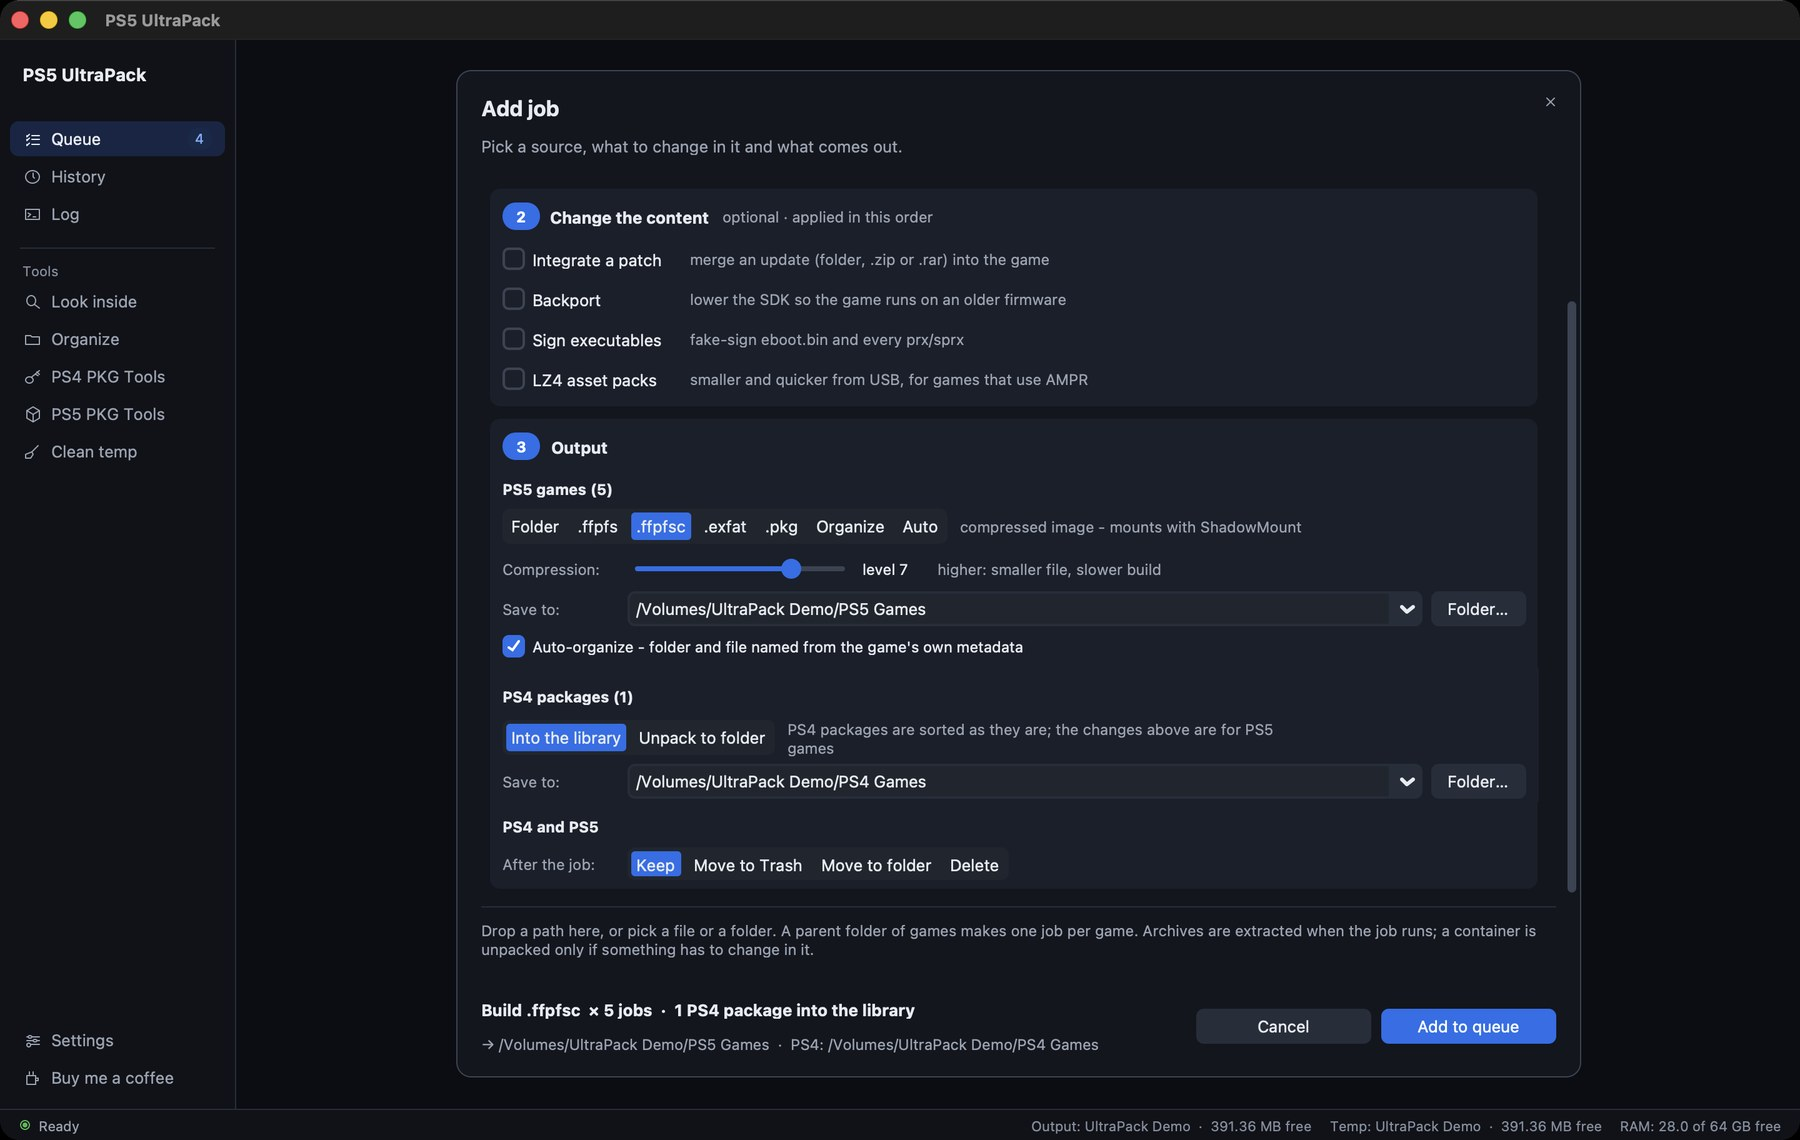
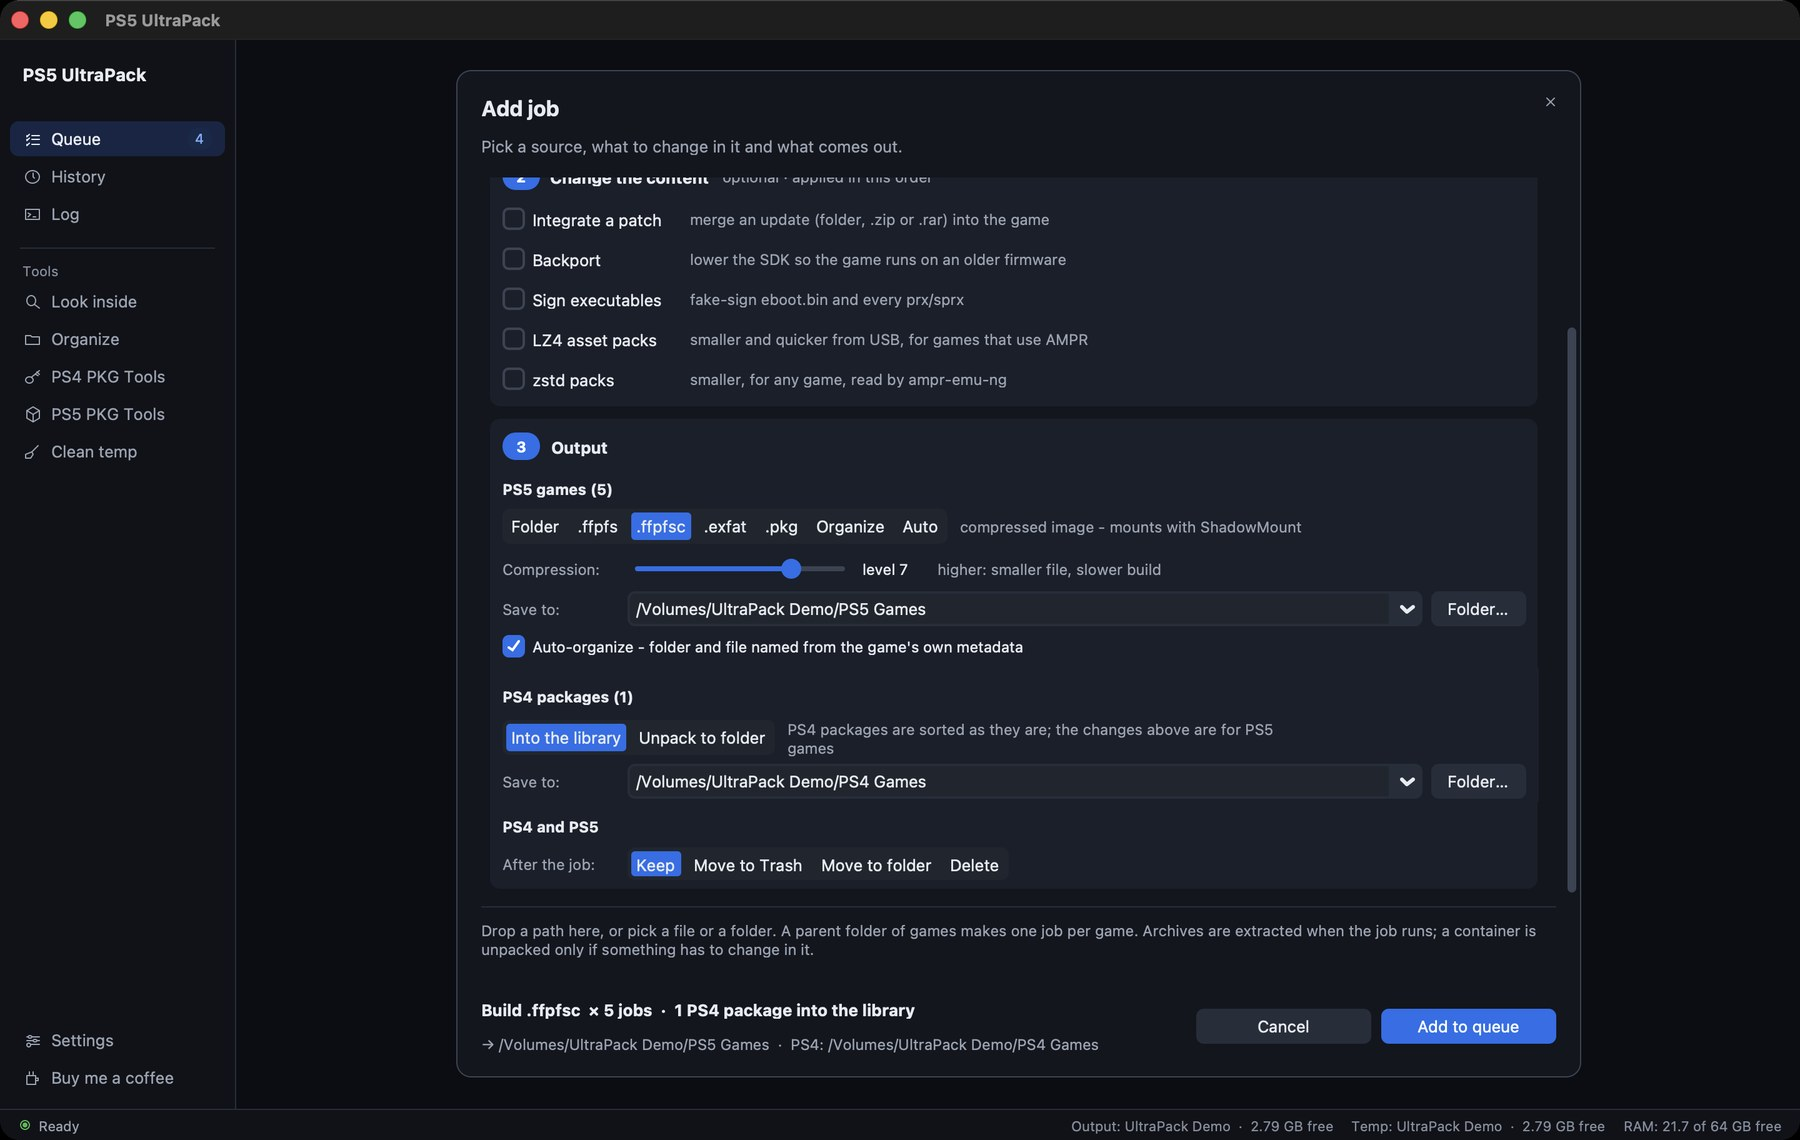
README: asset packs section, new screenshots, overview with zstd packs
The README explains LZ4 and zstd packs side by side, RAM for temp on
Linux and unplugged drives, and lists lz4, backports.zstd and
FETCH_AMPR_EMU.sh for a source run. All screenshots are taken again
from the current UI, with a new one of zstd packs in Add job; the
previous set moves to docs/screenshots/2.3.1.

Changed region(s): [[0.28, 0.1535, 0.5911, 0.3377], [0.56, 0.9825, 0.9644, 1.0]]

diff --git a/README.md b/README.md
@@ -4,7 +4,7 @@
   <img src="images/overview.png" alt="Sources on the left, the steps of a job in the middle, the output formats on the right, the tools below" width="900">
 </p>
 
-A desktop app for macOS, Windows and Linux that packs, converts, patches, backports and signs PS5 games, builds installable `.pkg` files, and checks and fixes PS4 and PS5 packages. You add a game folder, an archive, a disk image, a `.ffpfs`/`.ffpfsc` or a `.pkg`, pick what should happen to it and what should come out, and the queue works through it.
+A desktop app for macOS, Windows and Linux that packs, converts, patches, backports and signs PS5 games, shrinks them with LZ4 or zstd asset packs, builds installable `.pkg` files, and checks and fixes PS4 and PS5 packages. You add a game folder, an archive, a disk image, a `.ffpfs`/`.ffpfsc` or a `.pkg`, pick what should happen to it and what should come out, and the queue works through it.
 
 The app used to be called PS5 FFPFSC ULTRA.
 
@@ -60,7 +60,8 @@ Official builds are only published there. GitHub Actions builds each one from th
     <td align="center" width="50%"><img src="images/ps5-repair.jpg" width="400" alt="PS5 PKG Tools with a package that has the default keystone"><br><sub>PS5 PKG Tools</sub></td>
   </tr>
   <tr>
-    <td align="center" colspan="2"><img src="images/main-window-light.jpg" width="400" alt="Main window in light mode"><br><sub>Light mode</sub></td>
+    <td align="center" width="50%"><img src="images/add-job-zstd.jpg" width="400" alt="Add job with zstd packs at level 9 and .exfat as output"><br><sub>zstd packs</sub></td>
+    <td align="center" width="50%"><img src="images/main-window-light.jpg" width="400" alt="Main window in light mode"><br><sub>Light mode</sub></td>
   </tr>
 </table>
 
@@ -72,7 +73,7 @@ Older versions of the UI are in [docs/screenshots](docs/screenshots/README.md).
 
 **Outputs:** `.ffpfsc` (compressed), `.ffpfs` (uncompressed, faster to mount), `.exfat` (an exFAT image with 64 KiB clusters, which ShadowMountPlus reads fastest from USB), an installable `.pkg`, a plain folder, or "Organize", which files the source into your library as it is. **Auto** picks one of these per source: you set in Settings › Compression what a game folder, an image or a `.pkg` turns into, and an archive counts as what it holds.
 
-**On the way** a job can integrate a patch, backport the game to an older firmware, fake-sign the executables and, for games that load through AMPR, put their data into LZ4 asset packs, in that order. The packs make the game about half the size and are read by drakmor's ampr_emu, which the app puts into `fakelib/`; "Unpack LZ4" is the way back. For any game, AMPR or not, **zstd packs** do the same with zstd: everything except `eboot.bin`, the modules, `sce_sys`, `fakelib` and `.ini` files goes into `ampr_zstd-NNN.pak` volumes, which quer3q's ampr-emu-ng reads while the game runs (the app puts it into `fakelib/`, together with a fresh `ampr_emu.index`). You choose the zstd level (1, 5, 9 or 19). On the console, turn off fakelib updates in ShadowMountPlus so it doesn't replace the runtime. "Unpack zstd" is the way back. All of that happens on a working copy. Your source only changes if you ask for it (signing or backporting a folder in place), and if a patch job on your own folder fails, the patch is rolled back.
+**On the way** a job can integrate a patch, backport the game to an older firmware, fake-sign the executables and put the game into LZ4 or zstd asset packs, in that order (see [Asset packs](#asset-packs-lz4-and-zstd)). All of that happens on a working copy. Your source only changes if you ask for it (signing or backporting a folder in place), and if a patch job on your own folder fails, the patch is rolled back.
 
 Some things that make day-to-day use easier:
 
@@ -81,9 +82,41 @@ Some things that make day-to-day use easier:
 - A download folder with one game and a folder of add-ons next to it gives one job. After the game is done, its DLC and updates are unpacked and sorted into the game's title folder in the library, and anything else in the folder is copied next to the output. The add-ons don't show up as jobs of their own.
 - Output files are named from the game itself: `<Title> [PPSA12345] [v01.200] [fw8.00].ffpfsc` in a folder per title. The firmware tag comes from the SDK version in `eboot.bin`. Names stay within ShadowMountPlus's length limit.
 - Extras that come with a release (notes, checksums, backport files, DLC folders) don't go into the image, but they aren't thrown away either. They end up next to the output. macOS and Windows junk like `.DS_Store`, `._*` and `Thumbs.db` is dropped.
-- Work is spread across drives. The image is built on your fast temp SSD and the result is written to the output drive. If the SSD is too small, the app splits the work or falls back to the output drive. A job that won't fit is skipped up front, with the numbers, so it doesn't fail halfway.
+- Work is spread across drives. The image is built on your fast temp SSD and the result is written to the output drive. If the SSD is too small, the app splits the work or falls back to the output drive. On Linux the temp files of a job can go to RAM instead (Settings › Drives & space). A job that won't fit is skipped up front, with the numbers, so it doesn't fail halfway, and a drive that isn't plugged in is reported as not connected.
 - The queue keeps its order, can be rearranged by drag and drop, and shows overall progress and time left. Failed jobs stay in the list and can be edited and retried. Pause lets the running job finish first.
 - After a job the source can stay, go to the Trash, be moved somewhere or be deleted.
+
+## Asset packs: LZ4 and zstd
+
+<p align="center">
+  <img src="images/add-job-zstd.jpg" alt="Add job with zstd packs at level 9 and .exfat as output" width="760">
+</p>
+
+Asset packs make a game smaller and keep it a plain folder or `.exfat`. A runtime in the game's `fakelib/` reads the packs while the game runs. The app copies the runtime in and writes a fresh `ampr_emu.index` that lists every file, packed or loose.
+
+| | LZ4 asset packs | zstd packs |
+|---|---|---|
+| Games | Only games that load through AMPR (their `eboot.bin` imports libSceAmpr) | Any game |
+| What goes in | Data in subfolders; executables, configs and media stay loose (or your own profile) | Everything except `eboot.bin`, `.elf`/`.self`/`.prx`/`.sprx`, `.ini`, `sce_sys/`, `sce_module/` and `fakelib*/` |
+| Runtime | drakmor's ampr_emu 0.4.2.1 | quer3q's ampr-emu-ng 0.4.0 |
+| Files | `ampr_assets-NNN.pak`, `ampr_assets.index` | `ampr_zstd-NNN.pak`, `ampr_zstd.index` |
+| Settings | Optional TOML profile | Level 1 (fast), 5, 9 or 19 (smallest) |
+
+In Add job, tick **LZ4 asset packs** or **zstd packs** under "Change the content". A game holds one kind of packs, so ticking one clears the other. The output switches to `.exfat`; a folder works too, and the result then lands as `<name> [LZ4]` or `<name> [zstd]` in the output folder, never in the source. An `.ffpfsc` would compress the packs a second time and an installed `.pkg` uses Kraken anyway, so those outputs turn the option off.
+
+Every packed file is compared with the original before the originals go. A game that would shrink by less than 5 % stays as it is. **Unpack** turns a packed game back into plain files and works into any output; Add job picks it by itself when the source already holds packs.
+
+On the console, turn off fakelib updates in ShadowMountPlus, or it replaces the game's runtime with its own `libSceAmpr.sprx`. Keep the original until the game ran.
+
+The zstd packs follow format version 1 of ampr-emu-ng and ps5-dump-forge. ps5-dump-forge's writer makes byte-identical volumes from the same files, and ampr-emu-ng's own index and mount code accepts the result.
+
+On the command line:
+
+```bash
+python3 backend/cli.py <game folder> <out>/Game.exfat --to exfat --zstd --zstd-level 9
+python3 backend/cli.py <out>/Game.exfat "<out>/Game [unpacked]" --to folder --zstd-unpack
+python3 backend/cli.py <game folder> <out>/Game.exfat --to exfat --lz4 [--lz4-profile <toml>]
+```
 
 ## Building `.pkg` files
 
@@ -200,8 +233,9 @@ Look inside opens a `.ffpfs`, `.ffpfsc` or `.pkg` and shows the file tree. You c
 You need Python 3.10 or newer. This is also the way to run the app on a macOS older than 26: the release builds need macOS 26, but a source run uses whatever your Python is built for. I don't test or support older systems, though.
 
 ```bash
-python3 -m pip install customtkinter pillow tkinterdnd2 py7zr rarfile psutil cryptography
+python3 -m pip install customtkinter pillow tkinterdnd2 py7zr rarfile psutil cryptography lz4 backports.zstd
 python3 -m pip install ./backend/unrar
+./FETCH_AMPR_EMU.sh          # the runtimes for LZ4 and zstd packs
 python3 PS5_UltraPack.py
 ```
 

diff --git a/docs/screenshots/README.md b/docs/screenshots/README.md
@@ -6,6 +6,7 @@ The user interface across versions, kept for before/after comparisons.
 |---|---|---|
 | `1.1.15/` | 1.1.15 (PS5 FFPFSC ULTRA) | The README screenshots of that release: main window, Pack, Convert, Patch, fPKG, Browse, Settings |
 | `1.1.19/` | 1.1.19 (PS5 FFPFSC ULTRA) | Last UI before the 2.0.0 redesign: main window dark and light with three sample jobs, the Add job dialog, Settings |
+| `2.3.1/` | 2.3.1 to 2.4.2 (PS5 UltraPack) | The README set before zstd packs: main window dark and light, queue, Add job (game folder, mixed folder, PS4 and PS5 package, .pkg output, Backport), PS4 and PS5 PKG Tools, Auto output and Backport settings, Look inside, and the overview graphic |
 | `2.0.0/` | 2.0.0 (PS5 UltraPack) | The redesign with the same three sample jobs: main window dark (details closed and open) and light, Add job (also with .pkg output, and with Backport and its Check), Settings pages (also light, and Backport with a firmware folder), Look inside, the Compression settings page, the first-run page, and the error (also light) and job result windows (short and long report) |
 
 The 1.1.19 and 2.0.0 sets were taken from the source (1.1.19 at commit `d5a04ea`) with an isolated profile and neutral
